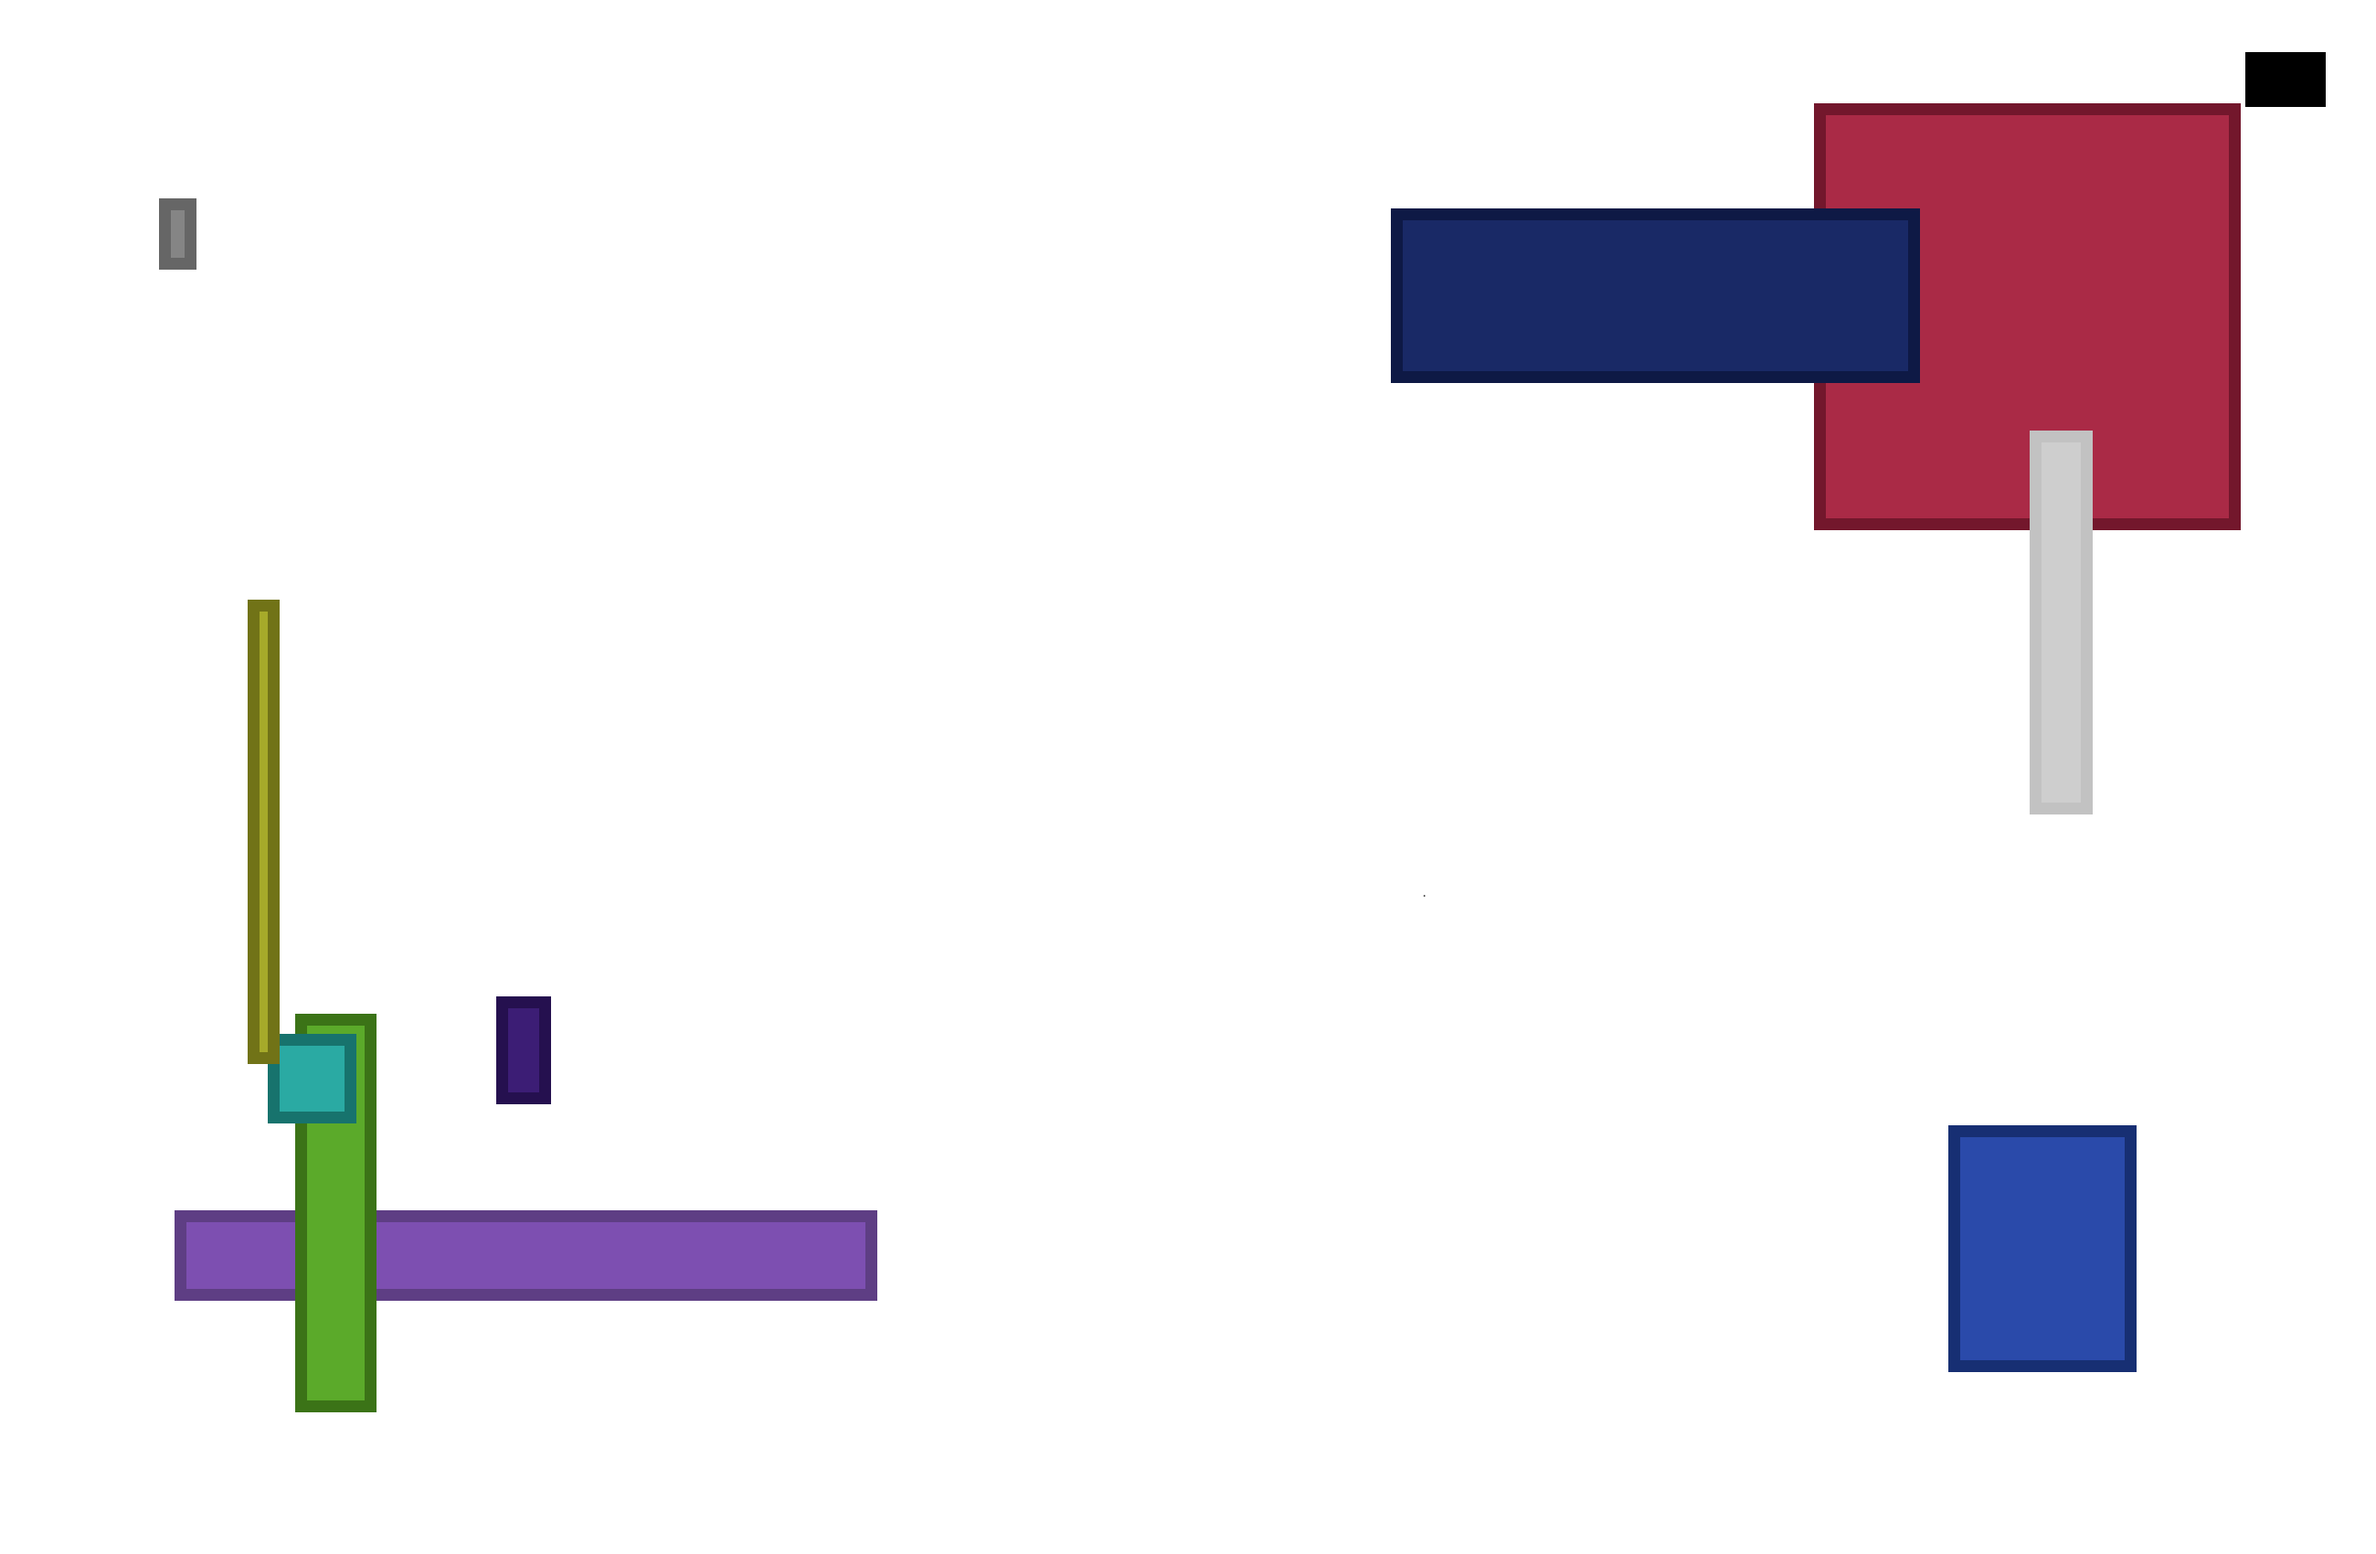
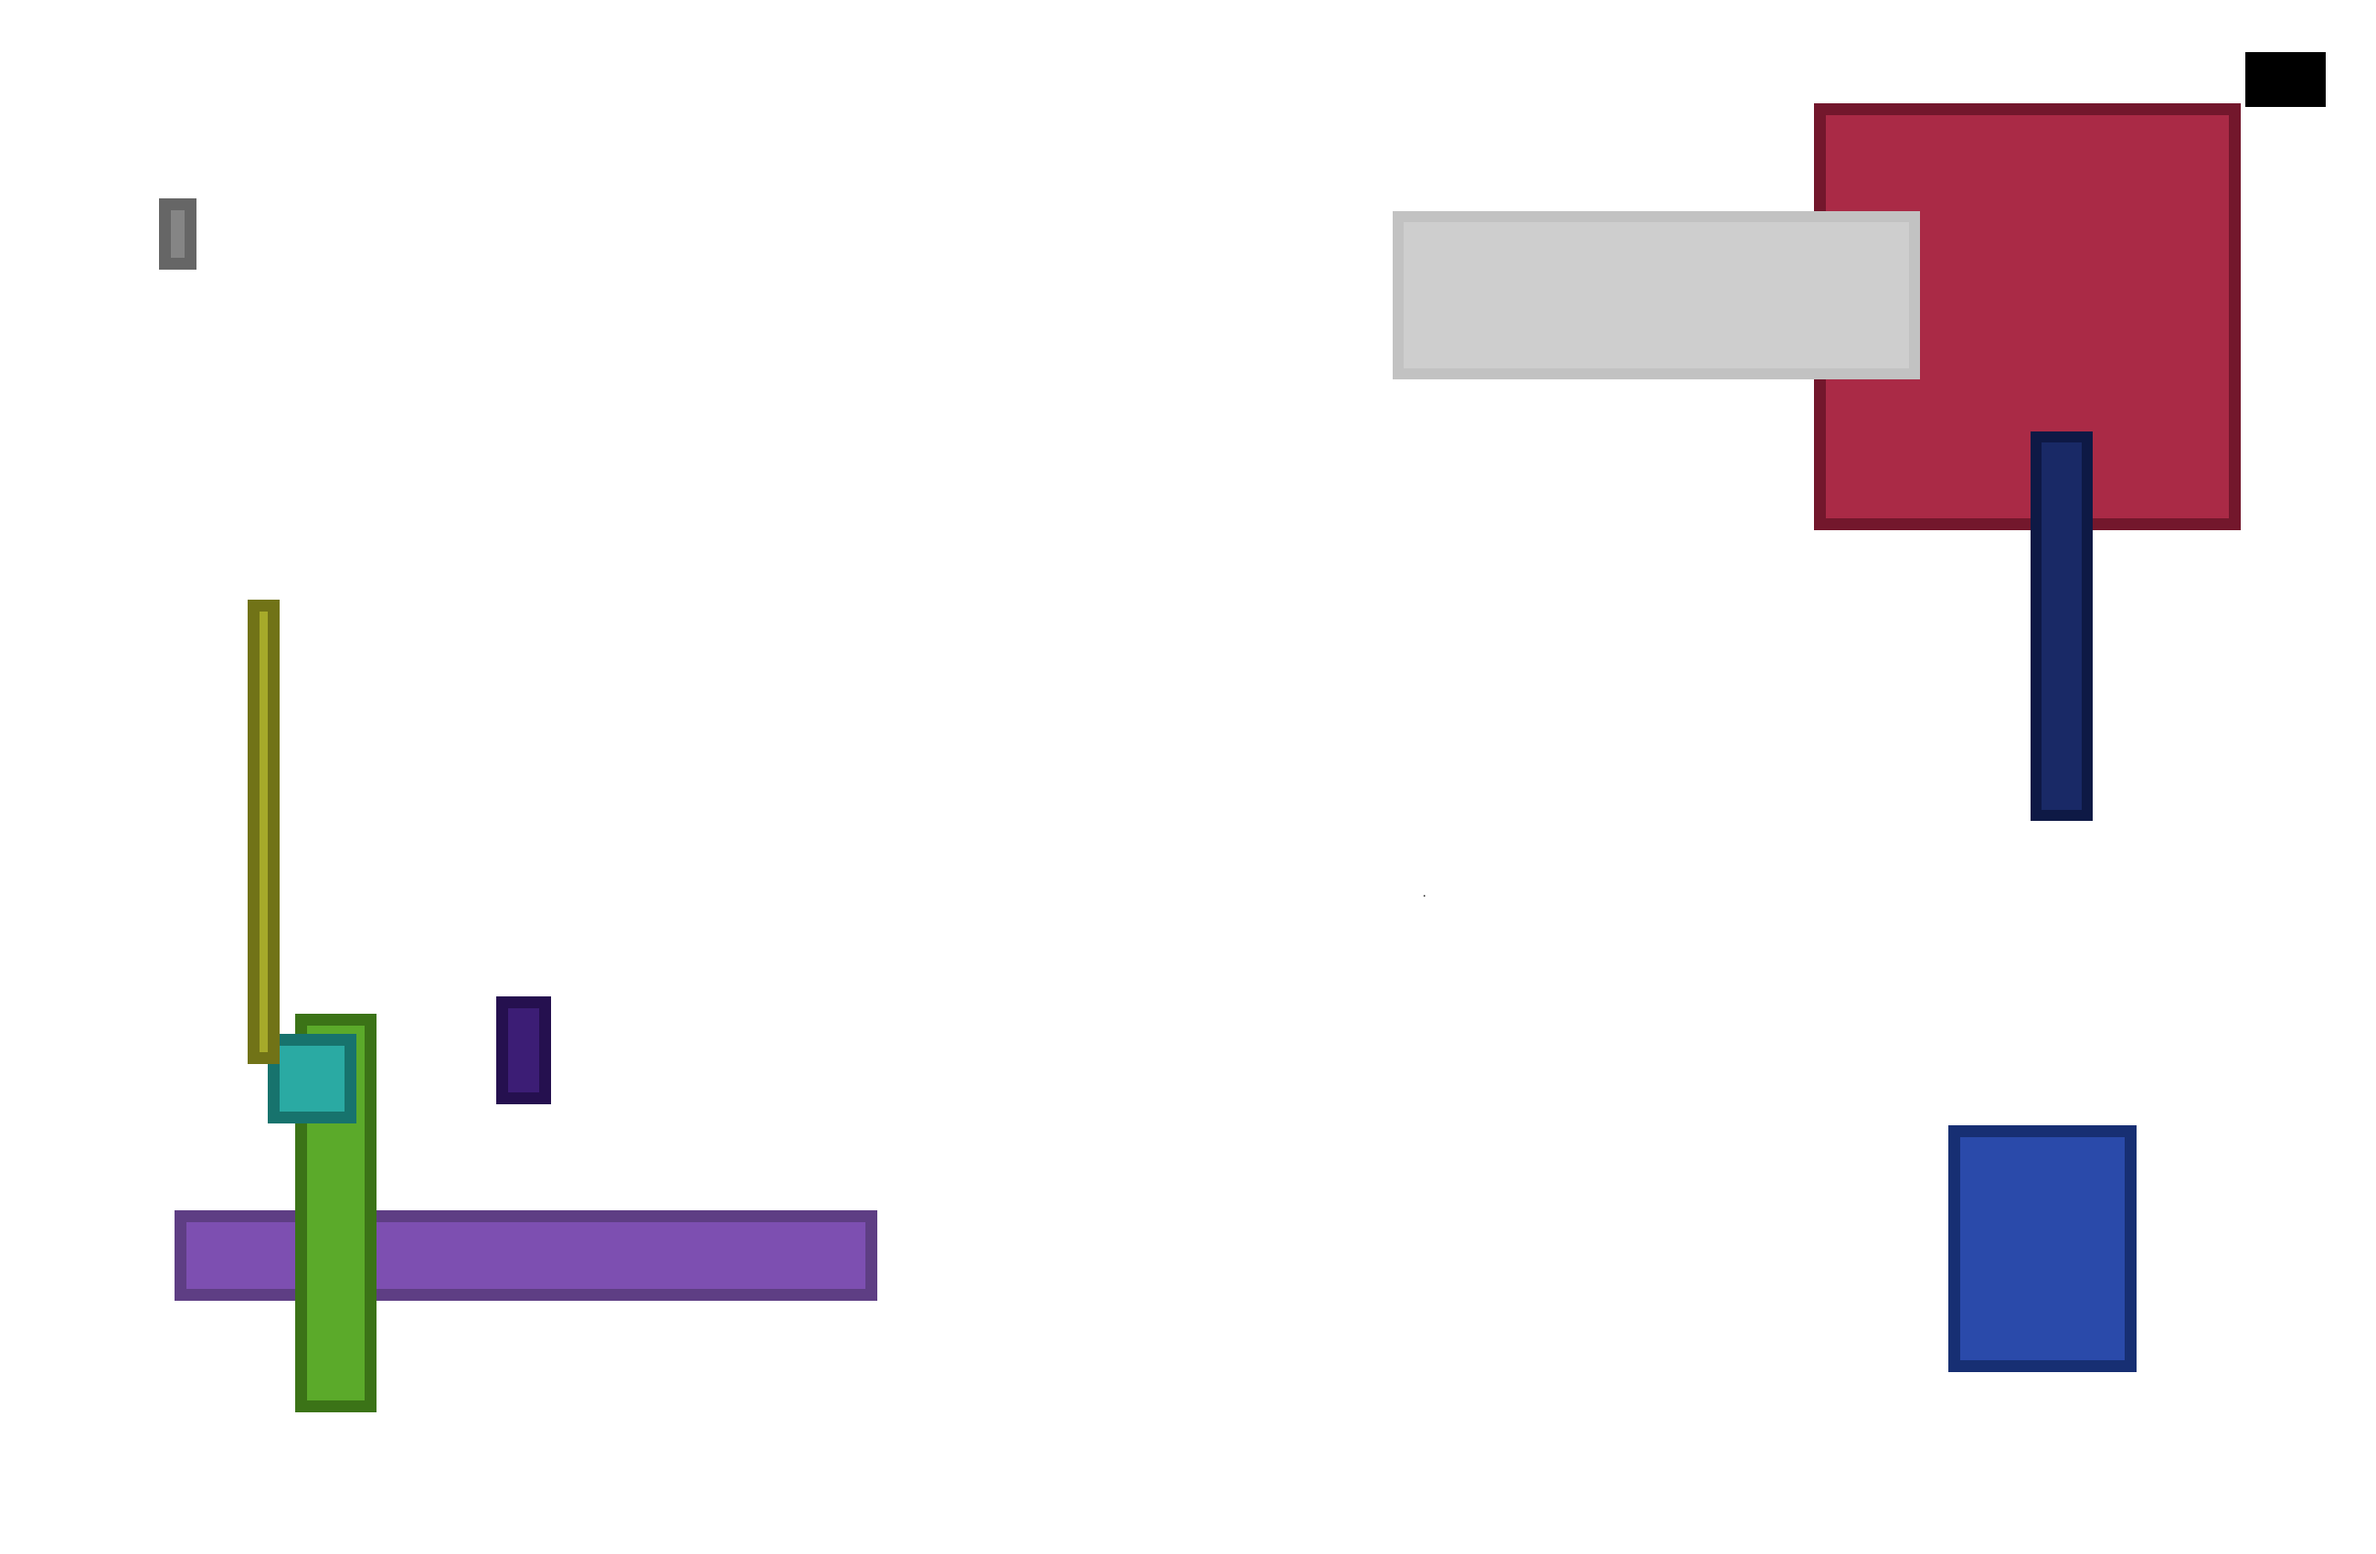
もろもろデザイン更新

Changed region(s): [[0.5608, 0.1247, 0.81, 0.2494], [0.8412, 0.2806, 0.9035, 0.53]]

diff --git a/src/components/background/Galaxy.tsx b/src/components/background/Galaxy.tsx
@@ -3,7 +3,7 @@
 import { isOSReady } from "@/atom";
 import { css, cx } from "@kuma-ui/core";
 import { useStore } from "@nanostores/react";
-import { useEffect, useRef } from "react";
+import { useEffect, useRef, useState } from "react";
 import * as THREE from "three";
 import { Planet } from "@/components/background/galaxy/Planet";
 import { Orbit } from "@/components/background/galaxy/Orbit";
@@ -11,11 +11,20 @@ import { Orbit } from "@/components/background/galaxy/Orbit";
 export default function () {
 	const $isOSReady = useStore(isOSReady);
 	const canvasElement = useRef<HTMLCanvasElement>(null);
+	const [isReady, setisReady] = useState<boolean>(false);
+
+	useEffect(() => {
+		if ($isOSReady) {
+			setTimeout(() => {
+				setisReady(true);
+			}, 1000);
+		}
+	}, [$isOSReady]);
 
 	useEffect(() => {
 		let unmounted = false;
 
-		if ($isOSReady) {
+		if (isReady) {
 			if (canvasElement.current !== null) {
 				const canvas = canvasElement.current;
 
@@ -91,6 +100,16 @@ export default function () {
 				const maxFPS = 30;
 				let lastUpdateTime = performance.now();
 
+				// 3秒かけてspeedを徐々に1倍にする
+				const startSpeed = 50;
+				const endSpeed = 1;
+				const duration = 1000;
+				const startTime = performance.now();
+				let speed = startSpeed;
+
+				// イージング関数
+				const easeOutQuad = (t: number) => 1 - (1 - t) * (1 - t);
+
 				const tick = (): void => {
 					if (unmounted) {
 						return;
@@ -100,6 +119,16 @@ export default function () {
 					const now = performance.now();
 					const deltaTime = now - lastUpdateTime;
 
+					// 初回のスピード調整処理
+					const elapsed = now - startTime;
+					if (elapsed < duration) {
+						const t = Math.min(elapsed / duration, 1);
+						const easedT = easeOutQuad(t);
+						speed = startSpeed + (endSpeed - startSpeed) * easedT;
+					} else {
+						speed = endSpeed;
+					}
+
 					if (deltaTime < 1000 / maxFPS) {
 						return;
 					}
@@ -108,10 +137,10 @@ export default function () {
 
 					renderer.clear();
 
-					hiyokoPlanet.tracking(orbit1, 0.001, -3, -2);
+					hiyokoPlanet.tracking(orbit1, 0.001 * speed, -3, -2);
 					hiyokoPlanet.rotate(0.14, 1, -1, -1);
 
-					piglinPlanet.tracking(orbit2, 0.002, 0, 0);
+					piglinPlanet.tracking(orbit2, 0.002 * speed, 0, 0);
 					piglinPlanet.rotate(0.2, 1, 1, 1);
 
 					// カメラ
@@ -147,7 +176,7 @@ export default function () {
 		return () => {
 			unmounted = true;
 		};
-	}, [$isOSReady]);
+	}, [isReady]);
 
 	return (
 		<canvas
@@ -165,7 +194,7 @@ export default function () {
 
 					animation-duration: 70ms;
 					animation-fill-mode: forwards;
-					animation-delay: 1700ms;
+					animation-delay: 1000ms;
 					animation-iteration-count: 5;
 					animation-timing-function: linear;
 					opacity: 0;

diff --git a/src/app/(desktop)/layout.tsx b/src/app/(desktop)/layout.tsx
@@ -4,16 +4,17 @@ import ContextMenu from "@/components/ContextMenu";
 import Loading from "@/components/desktop/Loading";
 import SelectArea from "@/components/background/SelectArea";
 import { Taskbar } from "@/components/taskbar/Taskbar";
-import TwitchBackground from "@/components/background/TwitchBackground";
+// import TwitchBackground from "@/components/background/TwitchBackground";
 import { metaHead } from "@/libs/meta";
 import { css } from "@kuma-ui/core";
-import { PixelWrapper } from "@/components/background/PixelWrapper";
+// import { PixelWrapper } from "@/components/background/PixelWrapper";
 import NewVideo from "@/components/background/NewVideo";
 import Galaxy from "@/components/background/Galaxy";
 import { InlineStyle } from "@/components/commons/InlineStyle";
 import { WindowManagerProvider } from "@/context/WindowManagerContext";
 import { AppArea } from "@/components/desktop/AppArea";
 import { URLStateSyncer } from "@/components/URLStateSyncer";
+import GlitchWrapper from "@/components/desktop/GlitchWrapper";
 
 export const metadata = metaHead({});
 
@@ -94,13 +95,30 @@ export default function ({ children }: React.PropsWithChildren) {
 							`}
 						>
 							<URLStateSyncer />
-							<TwitchBackground />
+							{/* <TwitchBackground /> */}
 							<AkiSignal />
 							<NewVideo />
 							<CodeBackground />
 							<Galaxy />
+							<GlitchWrapper
+								className={css`
+									position: absolute;
+									width: 100%;
+									height: 100%;
+									user-select: none;
+									pointer-events: none;
+
+									video:nth-child(1) {
+										opacity: 0.05;
+									}
+
+									video:nth-child(2) {
+										filter: opacity(0.2);
+									}
+								`}
+							/>
 							<SelectArea />
-							<PixelWrapper />
+							{/* <PixelWrapper /> */}
 							<AppArea />
 							{children}
 						</div>

diff --git a/src/components/taskbar/Taskbar.tsx b/src/components/taskbar/Taskbar.tsx
@@ -42,7 +42,7 @@ const TaskbarIconMemo = memo(() => {
 						/>
 					</span>
 				))}
-			<span
+			<div
 				className={css`
 					order: 6;
 
@@ -52,7 +52,7 @@ const TaskbarIconMemo = memo(() => {
 				`}
 			>
 				<MinimizedAppArea />
-			</span>
+			</div>
 		</>
 	);
 });
@@ -178,6 +178,44 @@ export function Taskbar() {
 						}
 					`}
 				/>
+				<div
+					className={css`
+						position: absolute;
+						top: 50%;
+						right: 170px;
+						transform: translateY(-50%);
+						height: 50%;
+						user-select: none;
+						pointer-events: none;
+
+						@media (max-width: 1220px) {
+							width: 30vw;
+							height: auto;
+						}
+
+						@media (max-width: 920px) {
+							display: none;
+						}
+					`}
+				>
+					<img
+						src="/desktop/barcode.png"
+						loading="eager"
+						data-loading-image
+						alt=""
+						className={css`
+							height: 100%;
+							image-rendering: pixelated;
+							mask-image: url(/desktop/barcode-mask.png);
+							vertical-align: bottom;
+
+							@media (max-width: 1220px) {
+								width: 100%;
+								height: auto;
+							}
+						`}
+					/>
+				</div>
 				<TaskbarClock />
 			</div>
 		</div>

diff --git a/src/components/background/CodeBackground.tsx b/src/components/background/CodeBackground.tsx
@@ -88,11 +88,13 @@ export function CodeBackground() {
 	}, [ready]);
 
 	useEffect(() => {
+		let timer: NodeJS.Timeout | null = null;
+
 		if (code !== "") {
 			if (element.current !== null) {
 				element.current.style.transitionDuration = `${element.current.scrollHeight * 32}ms`;
 			}
-			setTimeout(() => {
+			timer = setTimeout(() => {
 				if (element.current !== null) {
 					element.current.style.top = `${element.current.scrollHeight * -1}px`;
 				}
@@ -103,6 +105,12 @@ export function CodeBackground() {
 				element.current.style.top = "";
 			}
 		}
+
+		return () => {
+			if (timer !== null) {
+				clearTimeout(timer);
+			}
+		};
 	}, [code]);
 
 	return (
@@ -124,10 +132,11 @@ export function CodeBackground() {
 				opacity: 0.4;
 				width: 100%;
 				height: 100%;
-				color: #292929;
+				color: #363636;
 				transition-property: top;
 				transition-timing-function: linear;
 				tab-size: 2em;
+				font-family: "BestTenCRT";
 
 				animation-name: scroll-code;
 			`}

diff --git a/src/components/window/PinButton.tsx b/src/components/window/PinButton.tsx
@@ -19,7 +19,6 @@ export function PinButton({ id }: { id: string }) {
 				position: relative;
 				width: 27px;
 				height: 27px;
-				border-radius: 50%;
 
 				&:before {
 					position: absolute;
@@ -30,7 +29,7 @@ export function PinButton({ id }: { id: string }) {
 					content: "";
 					width: 8px;
 					height: 8px;
-					background-color: #c6dd9a;
+					background-color: #90797d;
 				}
 
 				&:after {
@@ -42,11 +41,11 @@ export function PinButton({ id }: { id: string }) {
 					content: "";
 					width: 16px;
 					height: 5px;
-					background-color: #c6dd9a;
+					background-color: #90797d;
 				}
 
 				&:hover {
-					background-color: #c6dd9a;
+					background-color: #90797d;
 
 					&:before,
 					&:after,
@@ -70,7 +69,7 @@ export function PinButton({ id }: { id: string }) {
 					display: block;
 					width: 3px;
 					height: 9px;
-					background-color: #c6dd9a;
+					background-color: #90797d;
 				`}
 			/>
 			{/* {!$pinedWindowList.includes(id) && (

diff --git a/src/components/window/FullScreenButton.tsx b/src/components/window/FullScreenButton.tsx
@@ -29,10 +29,9 @@ export function FullScreenButton({
 					position: relative;
 					width: 27px;
 					height: 27px;
-					border-radius: 50%;
 
 					&:hover {
-						background-color: #c6dd9a;
+						background-color: #90797d;
 
 						&:before,
 						&:after {
@@ -46,7 +45,7 @@ export function FullScreenButton({
 							&:after {
 								display: block;
 								content: "";
-								border-color: #c6dd9a;
+								border-color: #90797d;
 								border-style: solid;
 								border-width: 2px;
 							}
@@ -69,7 +68,7 @@ export function FullScreenButton({
 								content: "";
 								width: 11px;
 								height: 11px;
-								border-color: #c6dd9a;
+								border-color: #90797d;
 								border-style: solid;
 								border-width: 2px;
 							}

diff --git a/src/components/window/MinimizeButon.tsx b/src/components/window/MinimizeButon.tsx
@@ -19,20 +19,19 @@ export function MinimizeButton({ id }: { id: string }) {
 				position: relative;
 				width: 27px;
 				height: 27px;
-				border-radius: 50%;
 
 				&:before {
 					display: block;
 					content: "";
 					width: 13px;
 					height: 13px;
-					border-bottom-color: #c6dd9a;
+					border-bottom-color: #90797d;
 					border-bottom-style: solid;
 					border-bottom-width: 2px;
 				}
 
 				&:hover {
-					background-color: #c6dd9a;
+					background-color: #90797d;
 
 					&:before {
 						border-color: #060303;

diff --git a/src/components/background/NewVideo.tsx b/src/components/background/NewVideo.tsx
@@ -89,7 +89,7 @@ export default function () {
 						`}
 					>
 						<img
-							src="/desktop/new_video_frame.webp"
+							src="/desktop/new_video_frame-colorful.png"
 							alt=""
 							className={css`
 								position: absolute;
@@ -99,6 +99,8 @@ export default function () {
 								width: calc(2600 / 1920 * 100%);
 								height: calc(1700 / 1080 * 100%);
 								z-index: 1;
+								opacity: 0.9;
+								filter: grayscale(1);
 							`}
 						/>
 						<div

diff --git a/src/components/window/CloseButton.tsx b/src/components/window/CloseButton.tsx
@@ -13,7 +13,6 @@ export function CloseButton({ id }: { id: string }) {
 				position: relative;
 				width: 27px;
 				height: 27px;
-				border-radius: 50%;
 
 				&:hover {
 					background-color: #c82746;
@@ -32,7 +31,7 @@ export function CloseButton({ id }: { id: string }) {
 					content: "";
 					width: 17px;
 					height: 3px;
-					background-color: #c6dd9a;
+					background-color: #90797d;
 				}
 
 				&:before {

diff --git a/src/components/taskbar/TaskbarClock.tsx b/src/components/taskbar/TaskbarClock.tsx
@@ -97,7 +97,7 @@ export function TaskbarClock() {
 			</span>
 			<span
 				onClick={() => {
-					addMessage("ネットサーフィンなんかやめて\n早く寝なさい");
+					addMessage("ゲームなんかやめて\n早く寝なさい");
 				}}
 				className={css`
 					font-size: 25px;

diff --git a/src/app/DEV/route.ts b/src/app/DEV/route.ts
@@ -1,0 +1,7 @@
+import { redirect } from "next/navigation";
+
+export const dynamic = "force-dynamic";
+
+export const GET = async (): Promise<void> => {
+	redirect("https://old.shikiiro.net/");
+};
